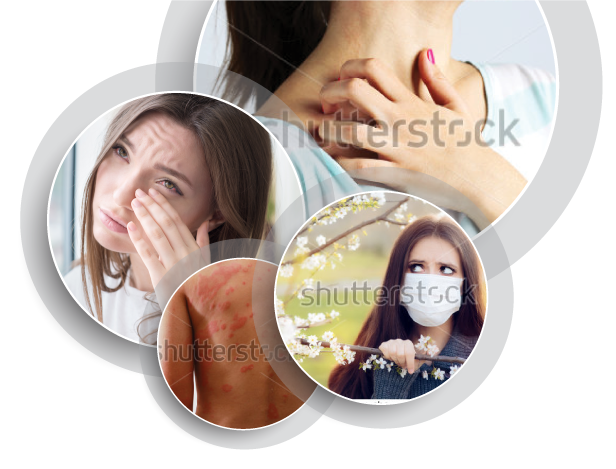
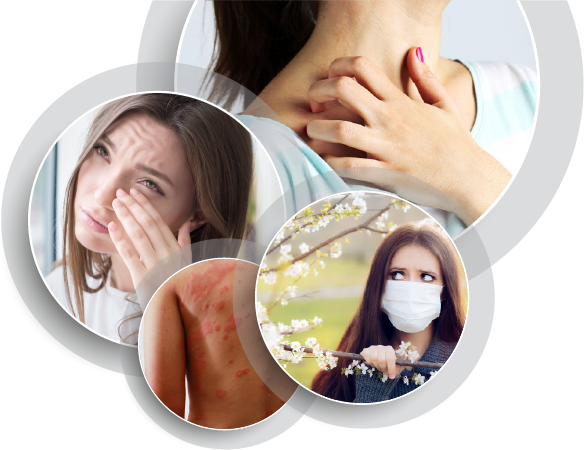
reload images

diff --git a/docs/css/main.min.css b/docs/css/main.min.css
@@ -1,2 +1,2 @@
-a,abbr,acronym,address,applet,article,aside,audio,b,big,blockquote,body,canvas,caption,center,cite,code,dd,del,details,dfn,div,dl,dt,em,embed,fieldset,figcaption,figure,footer,form,h1,h2,h3,h4,h5,h6,header,hgroup,html,i,iframe,img,ins,kbd,label,legend,li,mark,menu,nav,object,ol,output,p,pre,q,ruby,s,samp,section,small,span,strike,strong,sub,summary,sup,table,tbody,td,tfoot,th,thead,time,tr,tt,u,ul,var,video{margin:0;padding:0;border:0;font-size:100%;font:inherit;vertical-align:baseline}article,aside,details,figcaption,figure,footer,header,hgroup,menu,nav,section{display:block}body{line-height:1}ol,ul{list-style:none}blockquote,q{quotes:none}blockquote:after,blockquote:before,q:after,q:before{content:"";content:none}table{border-collapse:collapse;border-spacing:0}a,a:hover{text-decoration:none}@font-face{font-family:futuralight;src:url(../fonts/futura/futurabt-light-webfont.eot);src:url(../fonts/futura/futurabt-light-webfont.eot?#iefix) format("embedded-opentype"),url(../fonts/futura/futurabt-light-webfont.woff2) format("woff2"),url(../fonts/futura/futurabt-light-webfont.woff) format("woff"),url(../fonts/futura/futurabt-light-webfont.ttf) format("truetype");font-weight:400;font-style:normal}@font-face{font-family:futuramedium;src:url(../fonts/futura/futurabt-medium-webfont.eot);src:url(../fonts/futura/futurabt-medium-webfont.eot?#iefix) format("embedded-opentype"),url(../fonts/futura/futurabt-medium-webfont.woff2) format("woff2"),url(../fonts/futura/futurabt-medium-webfont.woff) format("woff"),url(../fonts/futura/futurabt-medium-webfont.ttf) format("truetype");font-weight:400;font-style:normal}@font-face{font-family:advent-Lt1;src:url(../fonts/advent/advent-Lt1.eot?#iefix) format("embedded-opentype"),url(../fonts/advent/advent-Lt1.otf) format("opentype"),url(../fonts/advent/advent-Lt1.woff) format("woff"),url(../fonts/advent/advent-Lt1.ttf) format("truetype");font-weight:400;font-style:normal}.wrapper{width:100%;margin:0 auto;font-family:Roboto,Arial,sans-serif;font-size:15px}.container{max-width:1080px;margin:0 auto;padding-left:1%;padding-right:1%;-webkit-box-sizing:border-box;box-sizing:border-box}sup{opacity:.6;font-size:8px;vertical-align:super}sup a{color:inherit}.header{position:relative;padding-top:25px;padding-bottom:20px;background-color:#4abfad;background-image:url(../img/header-bg.png),url(../img/shadow-down.png);background-repeat:no-repeat;background-position-y:bottom;background-size:100% 100%,100% 100%}.header:after{content:"";position:absolute;bottom:-17px;left:11%;width:45%;height:31px;background:url(../img/shine.png) no-repeat 100% 100%;z-index:1}.header__title-box{position:relative;width:350px;height:80px;margin:0 auto;padding-top:3px;background-image:url(../img/text_box.png);background-repeat:no-repeat;background-size:100% 100%}.header__title-box:after{content:"";position:absolute;bottom:-10px;left:0;width:350px;height:15px;opacity:.7;background:url(../img/title-shade.png) no-repeat 100% 100%}@media only screen and (max-width:368px){.header__title-box{width:100%;height:auto}.header__title-box:after{display:none}}.header__title{font-family:futuramedium;font-size:30px;text-align:center;line-height:1.2}.header__title a{color:#fff}.header__pollen{width:24%;max-width:290px;height:auto;position:absolute;bottom:-45px;z-index:1}@media only screen and (max-width:768px){.header .header__pollen,.header:after{display:none!important}}.header__pollen--left{left:1%}.header__pollen--right{right:1%;-webkit-transform:scaleX(-1);transform:scaleX(-1);-webkit-filter:FlipH;filter:FlipH;-ms-filter:"FlipH"}@media only screen and (min-width:1200px){.header .header__pollen--left{left:3%}.header .header__pollen--right{right:3%}}.menu-wrap{background-color:#4abfad;width:100%}.menu{position:relative;min-height:70px;display:-webkit-box;display:-ms-flexbox;display:flex;-ms-flex-wrap:wrap;flex-wrap:wrap;-webkit-box-pack:center;-ms-flex-pack:center;justify-content:center;-webkit-box-align:center;-ms-flex-align:center;align-items:center}.menu:before{content:"";position:absolute;top:10px;left:0;width:100%;height:15px;background:url(../img/shadow-under.png) no-repeat 100% 100%}.menu__item{position:relative;margin-top:5px;margin-bottom:5px;font-family:futuralight}.menu__item:before{content:"";position:absolute;top:0;left:0;height:40px;width:1px;background-image:url(../img/spacer.png);background-size:contain}.menu .menu__item--wide{padding-left:10px;padding-right:10px}.menu .menu__item--wide:after{content:"";position:absolute;top:0;right:0;height:40px;width:1px;background-image:url(../img/spacer.png)}.menu .is-active{color:#01453e}.menu__link{display:-webkit-box;display:-ms-flexbox;display:flex;-webkit-box-align:center;-ms-flex-align:center;align-items:center;-webkit-box-pack:center;-ms-flex-pack:center;justify-content:center;text-align:center;min-width:115px;min-height:40px;line-height:1.2;color:#fff;-webkit-transition:color .3s ease;transition:color .3s ease}.menu__link:hover{color:#01453e}.menu__dropdown{visibility:hidden;height:0;position:absolute;width:150px;padding-top:15px;opacity:0;background-color:#4abfad;-webkit-transition:all .3s ease-in-out;transition:all .3s ease-in-out}.menu .menu__item:hover .menu__dropdown{height:150px;opacity:1;visibility:visible;display:-webkit-box;display:-ms-flexbox;display:flex;-webkit-box-orient:vertical;-webkit-box-direction:normal;-ms-flex-direction:column;flex-direction:column;z-index:2}.menu .menu__item:hover .menu__dropdown .menu__item--dropdown{opacity:1;-webkit-transition-delay:.3s;transition-delay:.3s;-webkit-transition:opacity .2s ease-in-out;transition:opacity .2s ease-in-out}.menu .menu__item--dropdown{display:-webkit-box;display:-ms-flexbox;display:flex;padding:10px;color:#fff;opacity:0;border-bottom:1px solid #ccc}.menu .menu__item--dropdown:hover{background-color:#389e8e}.owl-carousel{height:440px;overflow:hidden}.owl-item{-webkit-box-shadow:inset 0 25px 47px 0 rgba(0,0,0,.75);box-shadow:inset 0 25px 47px 0 rgba(0,0,0,.75)}.footer{min-height:90px;padding:10px;margin-bottom:10px;background-color:#4abfad;-webkit-box-shadow:0 10px 0 0 #fba51a;box-shadow:0 10px 0 0 #fba51a;border-bottom:6px solid #dcdb88}.footer .container{position:relative}.footer__icons-bar{text-align:center;margin:0 auto}@media only screen and (max-width:368px){.footer__icons-bar img{width:100%}}.footer__references{position:absolute;right:20px;bottom:10px;font-family:advent-Lt1,Calibri,sans-serif;letter-spacing:.5px;color:#fff;-webkit-transition:color .3s ease;transition:color .3s ease}.footer__references:hover{color:#01453e}.footer__keeping{position:absolute;right:5%;top:5px;width:180px;height:40px;padding-top:3px;font-size:18px;font-family:futuramedium;line-height:1.1;background-image:url(../img/text_box.png);background-repeat:no-repeat;background-size:100% 100%}.footer__keeping:after{content:"";position:absolute;bottom:-10px;left:0;width:180px;height:15px;opacity:.7;background:url(../img/title-shade--small.png) no-repeat 100% 100%}.footer .footer__title{text-align:center;color:#fff}@media only screen and (max-width:768px){.footer{text-align:center}.footer .footer__keeping{position:static;margin:0 auto;margin-top:10px}.footer .footer__keeping:after{display:none}.footer .footer__references{position:static;margin:0 auto}}.content{position:relative;display:-webkit-box;display:-ms-flexbox;display:flex;-ms-flex-wrap:wrap;flex-wrap:wrap}.content .content__title{margin-top:50px;font-family:futuramedium;font-size:36px;color:#4abfad}.content .content__title span{font-family:Arial}.content p{margin-top:20px;margin-bottom:10px;line-height:1.5;font-weight:300;color:#58595b}.content .content__list{margin-left:15px;list-style-type:disc}.content .content__list-item{line-height:1.5;font-weight:300;color:#58595b}.content .content__tips-link{padding:2px 5px;font-size:12px;font-weight:300;color:#fff;background-repeat:no-repeat;background-size:100% 100%}.content .content__cat-bottom{position:absolute;bottom:-3px;right:3%}.content--what{min-height:420px;-webkit-box-sizing:border-box;box-sizing:border-box}.content--what .content__text{max-width:40%}.content--what__cat{margin-right:20px;-ms-flex-item-align:end;align-self:flex-end}.content--what__woman{max-height:420px;position:absolute;right:0}@media only screen and (max-width:1079px){.content--what .content{-webkit-box-pack:center;-ms-flex-pack:center;justify-content:center}.content--what .content__text{max-width:60%}.content--what .content--what__woman{display:none}}@media only screen and (max-width:700px){.content--what{text-align:center}.content--what .content--what__cat{-webkit-box-ordinal-group:3;-ms-flex-order:2;order:2}.content--what .content__text{max-width:100%}}.content--symptoms{-ms-flex-pack:distribute;justify-content:space-around}.content--symptoms .symptoms__text{margin-left:6%}.content--symptoms .symptoms__title{margin-top:30px;margin-bottom:40px;font-size:38px;font-family:futuralight;color:#58595b}.content--symptoms .symptoms__img{width:50%}.content--symptoms .symptoms__img img{width:100%}.content--triggers{-webkit-box-orient:vertical;-webkit-box-direction:normal;-ms-flex-direction:column;flex-direction:column}.content--triggers .content__title{margin-top:30px;margin-bottom:25px;font-family:futuralight}.content--triggers .triggers__text{padding-left:30px}.content--triggers p{margin-top:10px;margin:0}.content--triggers .triggers__allergens{padding-bottom:30px}.content--triggers .triggers__allergens,.content--triggers .triggers__picture-box{display:-webkit-box;display:-ms-flexbox;display:flex;-ms-flex-wrap:wrap;flex-wrap:wrap;-webkit-box-align:center;-ms-flex-align:center;align-items:center}.content--triggers .triggers__picture-box{position:relative;-webkit-box-pack:center;-ms-flex-pack:center;justify-content:center}.content--triggers .triggers__picture-box:before{position:absolute;content:"";height:50px;width:100%;top:36%;background-color:rgba(0,0,0,.2);z-index:0}.content--triggers .triggers__picture{width:123px;height:123px;margin:15px 15px 15px 0;border:15px solid rgba(0,0,0,.1);border-radius:50%;z-index:1}.content--triggers .triggers__picture:first-child{margin-left:30px}.content--triggers .triggers__picture:last-child{margin-right:80px}.content--triggers .triggers__picture img{width:100%;height:100%;border:1px solid #fff;border-radius:50%}.content--triggers .triggers__list{margin-bottom:10px;padding:10px;padding-bottom:30px;border:10px solid rgba(0,0,0,.2)}.content--triggers .triggers__list li{list-style-type:disc}.content--triggers .triggers__allergens-title{margin-top:20px;margin-bottom:20px;font-size:22px;font-weight:500;color:#f99a05}.content--triggers .triggers__allergens-title sup{font-weight:300;font-size:12px}.content--triggers .triggers__allergen-item{margin-left:30px;line-height:1.5;font-size:18px;font-weight:300;color:#58595b}@media only screen and (max-width:875px){.content--triggers .triggers__allergens{-webkit-box-pack:center;-ms-flex-pack:center;justify-content:center}.content--triggers .triggers__picture-box{-webkit-box-ordinal-group:3;-ms-flex-order:2;order:2}.content--triggers .triggers__picture-box:before{display:none}.content--triggers .triggers__picture-box .triggers__picture{margin-left:15px;margin-right:15px}.content--triggers .triggers__list{-webkit-box-ordinal-group:2;-ms-flex-order:1;order:1;margin-top:15px}}.content--types{-ms-flex-wrap:wrap;flex-wrap:wrap;padding-bottom:15px}.content--types,.content--types .types__text{-webkit-box-pack:center;-ms-flex-pack:center;justify-content:center}.content--types .types__text{width:100%;display:-webkit-box;display:-ms-flexbox;display:flex;-webkit-box-align:end;-ms-flex-align:end;align-items:flex-end}.content--types .list-box{max-width:290px}.content--types .content__list-title{margin-bottom:15px;color:#4abfad}.content--types .content__list-item{margin-left:10px;padding-left:5px}.content--types .list-box--center{display:-webkit-box;display:-ms-flexbox;display:flex;-webkit-box-orient:vertical;-webkit-box-direction:normal;-ms-flex-direction:column;flex-direction:column;-webkit-box-align:center;-ms-flex-align:center;align-items:center;margin-left:40px;margin-right:60px;background-repeat:no-repeat;background-size:cover}.content--types .list-box--center .content__list-title{margin-top:45px;padding-left:15px;padding-right:15px;line-height:1.2;font-size:20px;color:#58595b;font-weight:500;text-align:center}.content--types .types__cat-point-box{margin-top:20px;text-align:center}.content--types .types__bottom-title{font-size:20px;font-weight:500;color:#4abfad}@media only screen and (max-width:730px){.content--types .types__text{-webkit-box-orient:vertical;-webkit-box-direction:normal;-ms-flex-direction:column;flex-direction:column;-webkit-box-align:center;-ms-flex-align:center;align-items:center;-webkit-box-pack:center;-ms-flex-pack:center;justify-content:center}.content--types .list-box{max-width:400px}.content--types .list-box--center{padding-left:20px;padding-right:20px;-webkit-box-ordinal-group:2;-ms-flex-order:1;order:1;margin-left:0;margin-right:0}.content--types .list-box--left{-webkit-box-ordinal-group:3;-ms-flex-order:2;order:2;margin-top:20px}.content--types .list-box--right{-webkit-box-ordinal-group:4;-ms-flex-order:3;order:3;margin-top:20px}}.content--skin{padding-bottom:120px;padding-left:40px}.content--skin .skin__title{margin-top:45px;font-size:24px;font-weight:500;color:#4abfad}.content--skin .skin__desc{max-width:85%}.content--skin .skin__desc--last{max-width:80%}@media only screen and (max-width:650px){.content--skin{padding-bottom:175px;padding-left:0}.content--skin .skin__desc{max-width:100%}}.content--anti{padding-top:35px;padding-left:40px;padding-bottom:60px}.content--anti .anti__title{margin-top:25px;margin-bottom:25px;font-size:24px;color:#f99a05;font-weight:500}.content--anti .anti__list-title{margin-bottom:5px;font-weight:400;color:#000}.content--anti .anti__number-line--1{margin-top:5px;margin-bottom:5px}.content--anti .anti__line--orange{color:#f99a05;margin-bottom:5px}.content--anti .content__list-item{margin-left:3px;padding-left:5px}.content--anti .anti__number-line--2{max-width:75%}@media only screen and (max-width:650px){.content--anti{padding-bottom:155px;padding-left:0}.content--anti .anti__title{text-align:center}}.content--tips{padding:25px 0 60px 40px}.content--tips .tips__text{display:-webkit-box;display:-ms-flexbox;display:flex;-webkit-box-pack:justify;-ms-flex-pack:justify;justify-content:space-between}.content--tips .tips__column1{width:55%;padding-right:10%;-webkit-box-sizing:border-box;box-sizing:border-box}.content--tips .tips__spacer{height:330px;-ms-flex-item-align:center;align-self:center}.content--tips .tips__column2{width:45%;padding-left:5%;padding-top:7%;-webkit-box-sizing:border-box;box-sizing:border-box}.content--tips .tips__title{margin-bottom:25px;font-size:24px;font-family:futuralight;color:#58595b;font-weight:700}.content--tips .tips__subtitle{margin-bottom:15px;line-height:1.5;font-size:16px;font-weight:700;color:#4abfad}.content--tips .content__list-item span{font-weight:500}.content--tips .content__list-item p{margin-top:0;font-weight:300}.content--tips .content__tips-link{margin-left:10px}.content--tips .skin-allergy-img{position:absolute;top:0;right:0}.content--tips .content__cat-btm{right:0}@media only screen and (max-width:650px){.content--tips{padding:25px 0 175px}.content--tips .tips__title{text-align:center}.content--tips .skin-allergy-img{display:none}.content--tips .tips__text{-webkit-box-orient:vertical;-webkit-box-direction:normal;-ms-flex-direction:column;flex-direction:column}.content--tips .tips__column1,.content--tips .tips__column2{width:100%;padding:0}.content--tips .tips__spacer{display:none}}.tips__skin .tips__text{-webkit-box-orient:vertical;-webkit-box-direction:normal;-ms-flex-direction:column;flex-direction:column}.tips__skin .tips__title{font-size:30px;font-family:futuralight;color:#58595b;margin:20px 0 30px 5px}.tips__skin .tips__subtitle{font-size:24px;font-weight:500;margin-bottom:10px}.tips__skin .content__list-item{margin-bottom:20px}@media only screen and (max-width:1000px){.tips__skin .skin-allergy-img{display:none}}.content--ref .ref__text{padding-left:40px;padding-bottom:60px;font-size:13px;color:#58595b}.content--ref .ref__logo{max-width:144px;margin-top:25px;margin-bottom:25px}.content--ref .ref__subtitle{margin-bottom:15px;font-family:futuramedium}.content--ref .ref__subtitle a{color:inherit}.content--ref .ref__list-item{margin-bottom:10px;font-family:futuralight}.content--ref .reference__number{margin-right:2px;font-family:futuramedium;font-weight:700}@media only screen and (max-width:1000px){.content--ref .ref__text{padding-left:0;font-size:15px}}
+a,abbr,acronym,address,applet,article,aside,audio,b,big,blockquote,body,canvas,caption,center,cite,code,dd,del,details,dfn,div,dl,dt,em,embed,fieldset,figcaption,figure,footer,form,h1,h2,h3,h4,h5,h6,header,hgroup,html,i,iframe,img,ins,kbd,label,legend,li,mark,menu,nav,object,ol,output,p,pre,q,ruby,s,samp,section,small,span,strike,strong,sub,summary,sup,table,tbody,td,tfoot,th,thead,time,tr,tt,u,ul,var,video{margin:0;padding:0;border:0;font-size:100%;font:inherit;vertical-align:baseline}article,aside,details,figcaption,figure,footer,header,hgroup,menu,nav,section{display:block}body{line-height:1}ol,ul{list-style:none}blockquote,q{quotes:none}blockquote:after,blockquote:before,q:after,q:before{content:"";content:none}table{border-collapse:collapse;border-spacing:0}a,a:hover{text-decoration:none}@font-face{font-family:futuralight;src:url(../fonts/futura/futurabt-light-webfont.eot);src:url(../fonts/futura/futurabt-light-webfont.eot?#iefix) format("embedded-opentype"),url(../fonts/futura/futurabt-light-webfont.woff2) format("woff2"),url(../fonts/futura/futurabt-light-webfont.woff) format("woff"),url(../fonts/futura/futurabt-light-webfont.ttf) format("truetype");font-weight:400;font-style:normal}@font-face{font-family:futuramedium;src:url(../fonts/futura/futurabt-medium-webfont.eot);src:url(../fonts/futura/futurabt-medium-webfont.eot?#iefix) format("embedded-opentype"),url(../fonts/futura/futurabt-medium-webfont.woff2) format("woff2"),url(../fonts/futura/futurabt-medium-webfont.woff) format("woff"),url(../fonts/futura/futurabt-medium-webfont.ttf) format("truetype");font-weight:400;font-style:normal}@font-face{font-family:advent-Lt1;src:url(../fonts/advent/advent-Lt1.eot?#iefix) format("embedded-opentype"),url(../fonts/advent/advent-Lt1.otf) format("opentype"),url(../fonts/advent/advent-Lt1.woff) format("woff"),url(../fonts/advent/advent-Lt1.ttf) format("truetype");font-weight:400;font-style:normal}.wrapper,body,html{height:100%}.wrapper{width:100%;margin:0 auto;display:-webkit-box;display:-ms-flexbox;display:flex;-webkit-box-orient:vertical;-webkit-box-direction:normal;-ms-flex-direction:column;flex-direction:column;font-family:Roboto,Arial,sans-serif;font-size:15px}.container{max-width:1080px;margin:0 auto;padding-left:1%;padding-right:1%;-webkit-box-sizing:border-box;box-sizing:border-box}sup{opacity:.6;font-size:8px;vertical-align:super}sup a{color:inherit}.header{position:relative;padding-top:25px;padding-bottom:20px;background-color:#4abfad;background-image:url(../img/header-bg.png),url(../img/shadow-down.png);background-repeat:no-repeat;background-position-y:bottom;background-size:100% 100%,100% 100%}.header:after{content:"";position:absolute;bottom:-17px;left:11%;width:45%;height:31px;background:url(../img/shine.png) no-repeat 100% 100%;z-index:1}.header__title-box{position:relative;width:350px;height:80px;margin:0 auto;padding-top:3px;background-image:url(../img/text_box.png);background-repeat:no-repeat;background-size:100% 100%}.header__title-box:after{content:"";position:absolute;bottom:-10px;left:0;width:350px;height:15px;opacity:.7;background:url(../img/title-shade.png) no-repeat 100% 100%}@media only screen and (max-width:368px){.header__title-box{width:100%;height:auto}.header__title-box:after{display:none}}.header__title{font-family:futuramedium;font-size:30px;text-align:center;line-height:1.2}.header__title a{color:#fff}.header__pollen{width:24%;max-width:290px;height:auto;position:absolute;bottom:-45px;z-index:1}@media only screen and (max-width:768px){.header .header__pollen,.header:after{display:none!important}}.header__pollen--left{left:1%}.header__pollen--right{right:1%;-webkit-transform:scaleX(-1);transform:scaleX(-1);-webkit-filter:FlipH;filter:FlipH;-ms-filter:"FlipH"}@media only screen and (min-width:1200px){.header .header__pollen--left{left:3%}.header .header__pollen--right{right:3%}}.menu-wrap{background-color:#4abfad;width:100%}.menu{position:relative;min-height:70px;display:-webkit-box;display:-ms-flexbox;display:flex;-ms-flex-wrap:wrap;flex-wrap:wrap;-webkit-box-pack:center;-ms-flex-pack:center;justify-content:center;-webkit-box-align:center;-ms-flex-align:center;align-items:center}.menu:before{content:"";position:absolute;top:10px;left:0;width:100%;height:15px;background:url(../img/shadow-under.png) no-repeat 100% 100%}.menu__item{position:relative;margin-top:5px;margin-bottom:5px;font-family:futuralight}.menu__item:before{content:"";position:absolute;top:0;left:0;height:40px;width:1px;background-image:url(../img/spacer.png);background-size:contain}.menu .menu__item--wide{padding-left:10px;padding-right:10px}.menu .menu__item--wide:after{content:"";position:absolute;top:0;right:0;height:40px;width:1px;background-image:url(../img/spacer.png)}.menu .is-active{color:#01453e}.menu__link{display:-webkit-box;display:-ms-flexbox;display:flex;-webkit-box-align:center;-ms-flex-align:center;align-items:center;-webkit-box-pack:center;-ms-flex-pack:center;justify-content:center;text-align:center;min-width:115px;min-height:40px;line-height:1.2;color:#fff;-webkit-transition:color .3s ease;transition:color .3s ease}.menu__link:hover{color:#01453e}.menu__dropdown{visibility:hidden;height:0;position:absolute;width:150px;padding-top:15px;opacity:0;background-color:#4abfad;-webkit-transition:all .3s ease-in-out;transition:all .3s ease-in-out}.menu .menu__item:hover .menu__dropdown{height:150px;opacity:1;visibility:visible;display:-webkit-box;display:-ms-flexbox;display:flex;-webkit-box-orient:vertical;-webkit-box-direction:normal;-ms-flex-direction:column;flex-direction:column;z-index:2}.menu .menu__item:hover .menu__dropdown .menu__item--dropdown{opacity:1;-webkit-transition-delay:.3s;transition-delay:.3s;-webkit-transition:opacity .2s ease-in-out;transition:opacity .2s ease-in-out}.menu .menu__item--dropdown{display:-webkit-box;display:-ms-flexbox;display:flex;padding:10px;color:#fff;opacity:0;border-bottom:1px solid #ccc}.menu .menu__item--dropdown:hover{background-color:#389e8e}.owl-carousel{height:440px;overflow:hidden}main{-webkit-box-flex:1;-ms-flex:1 0 auto;flex:1 0 auto;position:relative}.owl-item{-webkit-box-shadow:inset 0 25px 47px 0 rgba(0,0,0,.75);box-shadow:inset 0 25px 47px 0 rgba(0,0,0,.75)}.footer{-webkit-box-flex:0;-ms-flex:0 0 auto;flex:0 0 auto;min-height:90px;padding:10px;margin-bottom:10px;background-color:#4abfad;-webkit-box-shadow:0 10px 0 0 #fba51a;box-shadow:0 10px 0 0 #fba51a;border-bottom:6px solid #dcdb88}.footer .container{position:relative}.footer__icons-bar{text-align:center;margin:0 auto}@media only screen and (max-width:368px){.footer__icons-bar img{width:100%}}.footer__references{position:absolute;right:20px;bottom:10px;font-family:advent-Lt1,Calibri,sans-serif;letter-spacing:.5px;color:#fff;-webkit-transition:color .3s ease;transition:color .3s ease}.footer__references:hover{color:#01453e}.footer__keeping{position:absolute;right:5%;top:5px;width:180px;height:40px;padding-top:3px;font-size:18px;font-family:futuramedium;line-height:1.1;background-image:url(../img/text_box.png);background-repeat:no-repeat;background-size:100% 100%}.footer__keeping:after{content:"";position:absolute;bottom:-10px;left:0;width:180px;height:15px;opacity:.7;background:url(../img/title-shade--small.png) no-repeat 100% 100%}.footer .footer__title{text-align:center;color:#fff}@media only screen and (max-width:768px){.footer{text-align:center}.footer .footer__keeping{position:static;margin:0 auto;margin-top:10px}.footer .footer__keeping:after{display:none}.footer .footer__references{position:static;margin:0 auto}}.content{position:relative;display:-webkit-box;display:-ms-flexbox;display:flex;-ms-flex-wrap:wrap;flex-wrap:wrap}.content .content__title{margin-top:50px;font-family:futuramedium;font-size:36px;color:#4abfad}.content .content__title span{font-family:Arial}.content p{margin-top:20px;margin-bottom:10px;line-height:1.5;font-weight:300;color:#58595b}.content .content__list{margin-left:15px;list-style-type:disc}.content .content__list-item{line-height:1.5;font-weight:300;color:#58595b}.content .content__tips-link{padding:2px 5px;font-size:12px;font-weight:300;color:#fff;background-repeat:no-repeat;background-size:100% 100%}.content .content__cat-bottom{position:absolute;bottom:-3px;right:3%}.content--what{-webkit-box-sizing:border-box;box-sizing:border-box}.content--what .content__text{max-width:40%}.content--what__cat{margin-right:20px;-ms-flex-item-align:end;align-self:flex-end}.content--what__woman{height:100%;position:absolute;top:0;right:0}@media only screen and (max-width:1000px){.content--what .content{-webkit-box-pack:center;-ms-flex-pack:center;justify-content:center}.content--what .content__text{max-width:60%}.content--what__woman{display:none}}@media only screen and (max-width:700px){.content--what{text-align:center}.content--what .content--what__cat{-webkit-box-ordinal-group:3;-ms-flex-order:2;order:2}.content--what .content__text{max-width:100%}}.content--symptoms{-ms-flex-pack:distribute;justify-content:space-around}.content--symptoms .symptoms__text{margin-left:6%}.content--symptoms .symptoms__title{margin-top:30px;margin-bottom:40px;font-size:38px;font-family:futuralight;color:#58595b}.content--symptoms .symptoms__img{width:50%}.content--symptoms .symptoms__img img{width:100%}.content--triggers{-webkit-box-orient:vertical;-webkit-box-direction:normal;-ms-flex-direction:column;flex-direction:column}.content--triggers .content__title{margin-top:30px;margin-bottom:25px;font-family:futuralight}.content--triggers .triggers__text{padding-left:30px}.content--triggers p{margin-top:10px;margin:0}.content--triggers .triggers__allergens{padding-bottom:30px}.content--triggers .triggers__allergens,.content--triggers .triggers__picture-box{display:-webkit-box;display:-ms-flexbox;display:flex;-ms-flex-wrap:wrap;flex-wrap:wrap;-webkit-box-align:center;-ms-flex-align:center;align-items:center}.content--triggers .triggers__picture-box{position:relative;-webkit-box-pack:center;-ms-flex-pack:center;justify-content:center}.content--triggers .triggers__picture-box:before{position:absolute;content:"";height:50px;width:100%;top:36%;background-color:rgba(0,0,0,.2);z-index:0}.content--triggers .triggers__picture{width:123px;height:123px;margin:15px 15px 15px 0;border:15px solid rgba(0,0,0,.1);border-radius:50%;z-index:1}.content--triggers .triggers__picture:first-child{margin-left:30px}.content--triggers .triggers__picture:last-child{margin-right:80px}.content--triggers .triggers__picture img{width:100%;height:100%;border:1px solid #fff;border-radius:50%}.content--triggers .triggers__list{margin-bottom:10px;padding:10px;padding-bottom:30px;border:10px solid rgba(0,0,0,.2)}.content--triggers .triggers__list li{list-style-type:disc}.content--triggers .triggers__allergens-title{margin-top:20px;margin-bottom:20px;font-size:22px;font-weight:500;color:#f99a05}.content--triggers .triggers__allergens-title sup{font-weight:300;font-size:12px}.content--triggers .triggers__allergen-item{margin-left:30px;line-height:1.5;font-size:18px;font-weight:300;color:#58595b}@media only screen and (max-width:875px){.content--triggers .triggers__allergens{-webkit-box-pack:center;-ms-flex-pack:center;justify-content:center}.content--triggers .triggers__picture-box{-webkit-box-ordinal-group:3;-ms-flex-order:2;order:2}.content--triggers .triggers__picture-box:before{display:none}.content--triggers .triggers__picture-box .triggers__picture{margin-left:15px;margin-right:15px}.content--triggers .triggers__list{-webkit-box-ordinal-group:2;-ms-flex-order:1;order:1;margin-top:15px}}.content--types{-ms-flex-wrap:wrap;flex-wrap:wrap;padding-bottom:15px}.content--types,.content--types .types__text{-webkit-box-pack:center;-ms-flex-pack:center;justify-content:center}.content--types .types__text{width:100%;display:-webkit-box;display:-ms-flexbox;display:flex;-webkit-box-align:end;-ms-flex-align:end;align-items:flex-end}.content--types .list-box{max-width:290px}.content--types .content__list-title{margin-bottom:15px;color:#4abfad}.content--types .content__list-item{margin-left:10px;padding-left:5px}.content--types .list-box--center{display:-webkit-box;display:-ms-flexbox;display:flex;-webkit-box-orient:vertical;-webkit-box-direction:normal;-ms-flex-direction:column;flex-direction:column;-webkit-box-align:center;-ms-flex-align:center;align-items:center;margin-left:40px;margin-right:60px;background-repeat:no-repeat;background-size:cover}.content--types .list-box--center .content__list-title{margin-top:45px;padding-left:15px;padding-right:15px;line-height:1.2;font-size:20px;color:#58595b;font-weight:500;text-align:center}.content--types .types__cat-point-box{margin-top:20px;text-align:center}.content--types .types__bottom-title{font-size:20px;font-weight:500;color:#4abfad}@media only screen and (max-width:730px){.content--types .types__text{-webkit-box-orient:vertical;-webkit-box-direction:normal;-ms-flex-direction:column;flex-direction:column;-webkit-box-align:center;-ms-flex-align:center;align-items:center;-webkit-box-pack:center;-ms-flex-pack:center;justify-content:center}.content--types .list-box{max-width:400px}.content--types .list-box--center{padding-left:20px;padding-right:20px;-webkit-box-ordinal-group:2;-ms-flex-order:1;order:1;margin-left:0;margin-right:0}.content--types .list-box--left{-webkit-box-ordinal-group:3;-ms-flex-order:2;order:2;margin-top:20px}.content--types .list-box--right{-webkit-box-ordinal-group:4;-ms-flex-order:3;order:3;margin-top:20px}}.content--skin{padding-bottom:120px;padding-left:40px}.content--skin .skin__title{margin-top:45px;font-size:24px;font-weight:500;color:#4abfad}.content--skin .skin__desc{max-width:85%}.content--skin .skin__desc--last{max-width:80%}@media only screen and (max-width:650px){.content--skin{padding-bottom:175px;padding-left:0}.content--skin .skin__desc{max-width:100%}}.content--anti{padding-top:35px;padding-left:40px;padding-bottom:60px}.content--anti .anti__title{margin-top:25px;margin-bottom:25px;font-size:24px;color:#f99a05;font-weight:500}.content--anti .anti__list-title{margin-bottom:5px;font-weight:400;color:#000}.content--anti .anti__number-line--1{margin-top:5px;margin-bottom:5px}.content--anti .anti__line--orange{color:#f99a05;margin-bottom:5px}.content--anti .content__list-item{margin-left:3px;padding-left:5px}.content--anti .anti__number-line--2{max-width:75%}@media only screen and (max-width:650px){.content--anti{padding-bottom:155px;padding-left:0}.content--anti .anti__title{text-align:center}}.content--tips{padding:25px 0 60px 40px}.content--tips .tips__text{display:-webkit-box;display:-ms-flexbox;display:flex;-webkit-box-pack:justify;-ms-flex-pack:justify;justify-content:space-between}.content--tips .tips__column1{width:55%;padding-right:10%;-webkit-box-sizing:border-box;box-sizing:border-box}.content--tips .tips__spacer{height:330px;-ms-flex-item-align:center;align-self:center}.content--tips .tips__column2{width:45%;padding-left:5%;padding-top:7%;-webkit-box-sizing:border-box;box-sizing:border-box}.content--tips .tips__title{margin-bottom:25px;font-size:24px;font-family:futuralight;color:#58595b;font-weight:700}.content--tips .tips__subtitle{margin-bottom:15px;line-height:1.5;font-size:16px;font-weight:700;color:#4abfad}.content--tips .content__list-item span{font-weight:500}.content--tips .content__list-item p{margin-top:0;font-weight:300}.content--tips .content__tips-link{margin-left:10px}.content--tips .skin-allergy-img{position:absolute;top:0;right:0}.content--tips .content__cat-btm{right:0}@media only screen and (max-width:650px){.content--tips{padding:25px 0 175px}.content--tips .tips__title{text-align:center}.content--tips .skin-allergy-img{display:none}.content--tips .tips__text{-webkit-box-orient:vertical;-webkit-box-direction:normal;-ms-flex-direction:column;flex-direction:column}.content--tips .tips__column1,.content--tips .tips__column2{width:100%;padding:0}.content--tips .tips__spacer{display:none}}.tips__skin .tips__text{-webkit-box-orient:vertical;-webkit-box-direction:normal;-ms-flex-direction:column;flex-direction:column}.tips__skin .tips__title{font-size:30px;font-family:futuralight;color:#58595b;margin:20px 0 30px 5px}.tips__skin .tips__subtitle{font-size:24px;font-weight:500;margin-bottom:10px}.tips__skin .content__list-item{margin-bottom:20px}@media only screen and (max-width:1000px){.tips__skin .skin-allergy-img{display:none}}.content--ref .ref__text{padding-left:40px;padding-bottom:60px;font-size:13px;color:#58595b}.content--ref .ref__logo{max-width:144px;margin-top:25px;margin-bottom:25px}.content--ref .ref__subtitle{margin-bottom:15px;font-family:futuramedium}.content--ref .ref__subtitle a{color:inherit}.content--ref .ref__list-item{margin-bottom:10px;font-family:futuralight}.content--ref .reference__number{margin-right:2px;font-family:futuramedium;font-weight:700}@media only screen and (max-width:1000px){.content--ref .ref__text{padding-left:0;font-size:15px}}
 /*# sourceMappingURL=maps/main.min.css.map */

diff --git a/docs/what_are.html b/docs/what_are.html
@@ -86,9 +86,9 @@
                 <p>Seasonal allergic rhinitis is commonly called hay fever.<sup><a href="references.html">2</a></sup></p>
                 <a href="tips.html" class="content__tips-link" style="background-image: url('img/tips-bg.png')">Tips for Treating Allergies</a>
             </article>
-            <img src="img/what-are-allergies.png" alt="What are allergies?" class="content--what__woman">
         </section>
     </div>
+    <img src="img/what-are-allergies.png" alt="What are allergies?" class="content--what__woman">
 </main>
 
 
